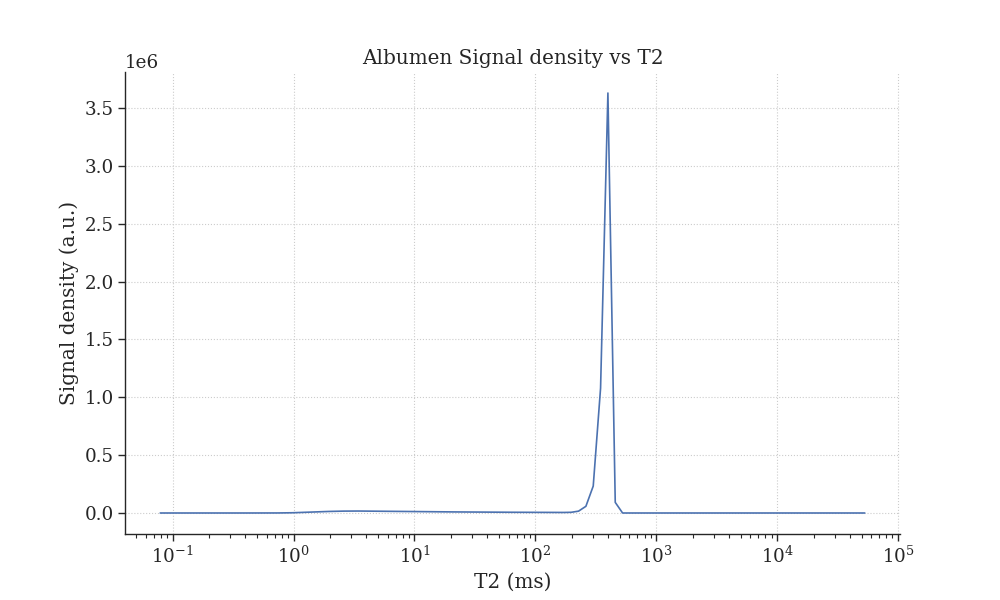
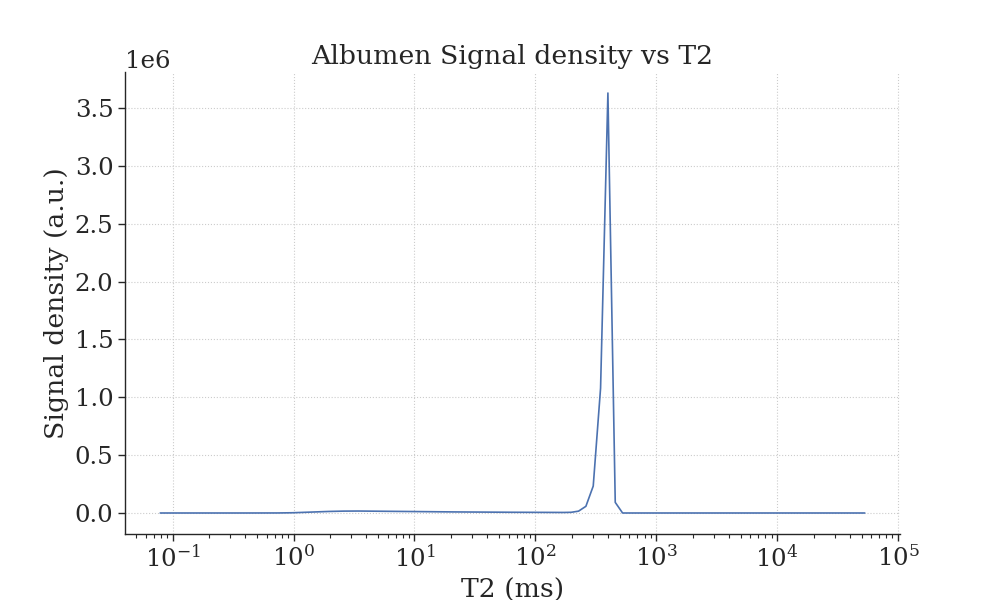
adjusted figure fonts

diff --git a/Lab1_T1&T2_weighting/T1T2fromUpen.py b/Lab1_T1&T2_weighting/T1T2fromUpen.py
@@ -18,6 +18,17 @@ IR_ALBUMEN = 'IRalbumeH.dat'
 IR_YOLK = 'IRtuorloH.dat'
 
 
+def sns_graphic_options():
+    sns.set_theme(style="ticks")
+    sns.set_context("paper", font_scale=2.0)
+    plt.rcParams["font.family"] = "serif"  
+    plt.rcParams["axes.grid"] = True  
+    plt.rcParams["grid.linestyle"] = ":" 
+    plt.rcParams['axes.spines.right'] = False 
+    plt.rcParams['axes.spines.top'] = False
+
+    return None
+
 def read_table(PATH):
     """
     Returns a pd.dataframe obtained from .dat file
@@ -79,13 +90,7 @@ def T2_plots(table, title1, figure_name1, estimated_T2, title2,  figure_name2, t
     table["Sig"] = pd.to_numeric(table["Sig"], errors='coerce')
     
     # Customize
-    sns.set_theme(style="ticks")
-    sns.set_context("paper", font_scale=1.5)
-    plt.rcParams["font.family"] = "serif"  
-    plt.rcParams["axes.grid"] = True  
-    plt.rcParams["grid.linestyle"] = ":" 
-    plt.rcParams['axes.spines.right'] = False 
-    plt.rcParams['axes.spines.top'] = False
+    sns_graphic_options()
 
     # Figure 1: Plot with log-scaled x-axis
     plt.figure(figsize=(10, 6))
@@ -208,13 +213,7 @@ def T1_plots(table, title1, figure_name1, estimated_T1, title2, figure_name2, ti
     table["Sig"] = pd.to_numeric(table["Sig"], errors='coerce')
 
     # Customize
-    sns.set_theme(style="ticks")
-    sns.set_context("paper", font_scale=1.5)
-    plt.rcParams["font.family"] = "serif"
-    plt.rcParams["axes.grid"] = True
-    plt.rcParams["grid.linestyle"] = ":" 
-    plt.rcParams['axes.spines.right'] = False 
-    plt.rcParams['axes.spines.top'] = False
+    sns_graphic_options()
 
     plt.figure(figsize=(10, 6))
     plt.plot(table["T"], table["Sig_Np"])
@@ -280,13 +279,7 @@ def inversion_recovery_plots(table_yolk, table_albumen, figure_name):
     table_albumen["Sig"] = pd.to_numeric(table_albumen["Sig"], errors='coerce')
 
     # Customize
-    sns.set_theme(style="ticks")
-    sns.set_context("paper", font_scale=1.5)
-    plt.rcParams["font.family"] = "serif"
-    plt.rcParams["axes.grid"] = True
-    plt.rcParams["grid.linestyle"] = ":" 
-    plt.rcParams['axes.spines.right'] = False 
-    plt.rcParams['axes.spines.top'] = False
+    sns_graphic_options()
 
     time_yolk = table_yolk["SigT"].values[:64]
     signal_yolk = -1 * table_yolk["Sig"].values[:64]
